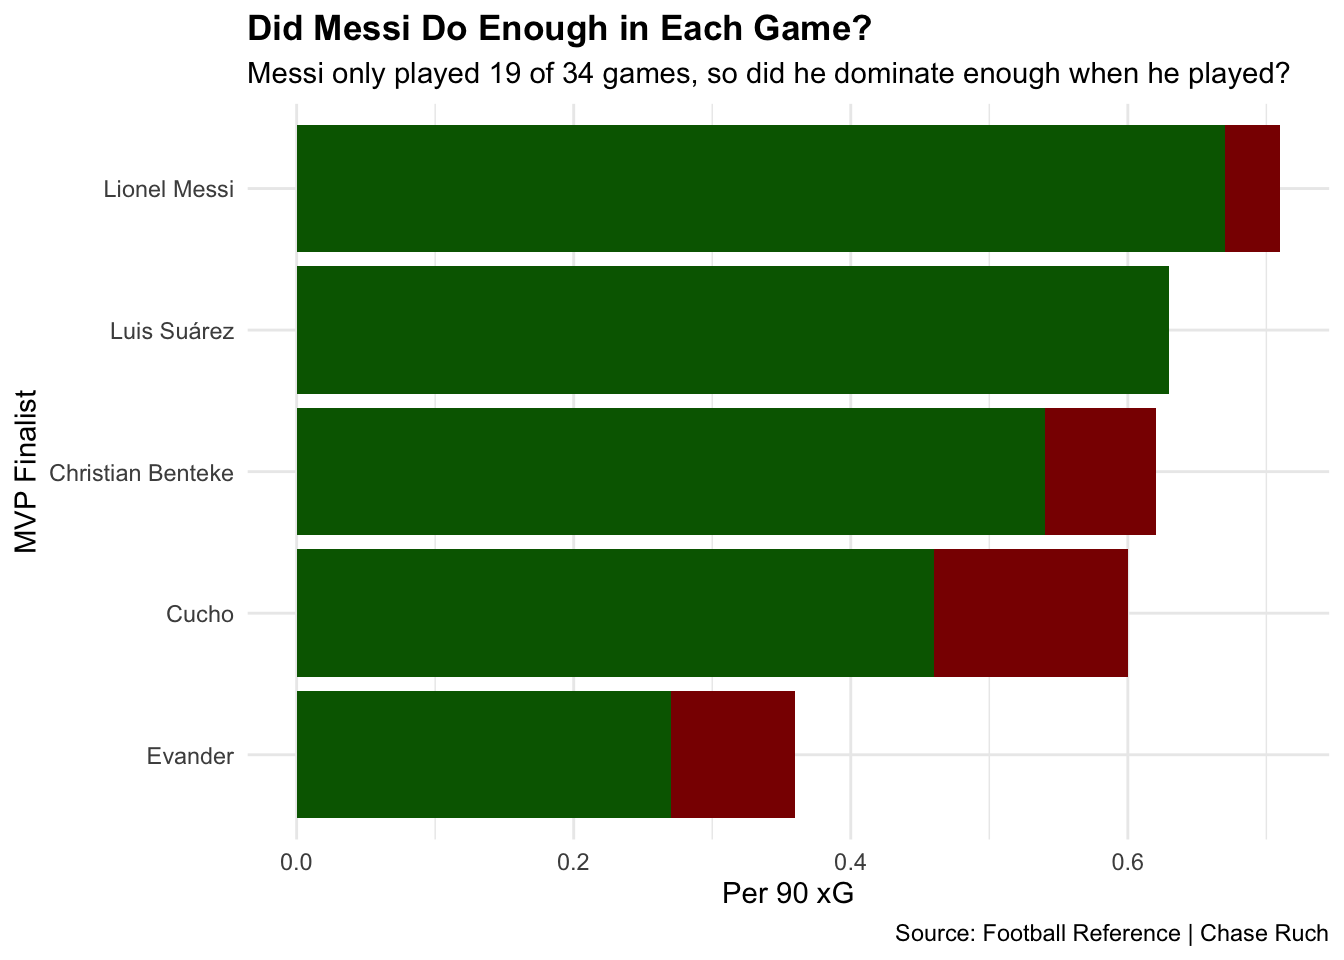
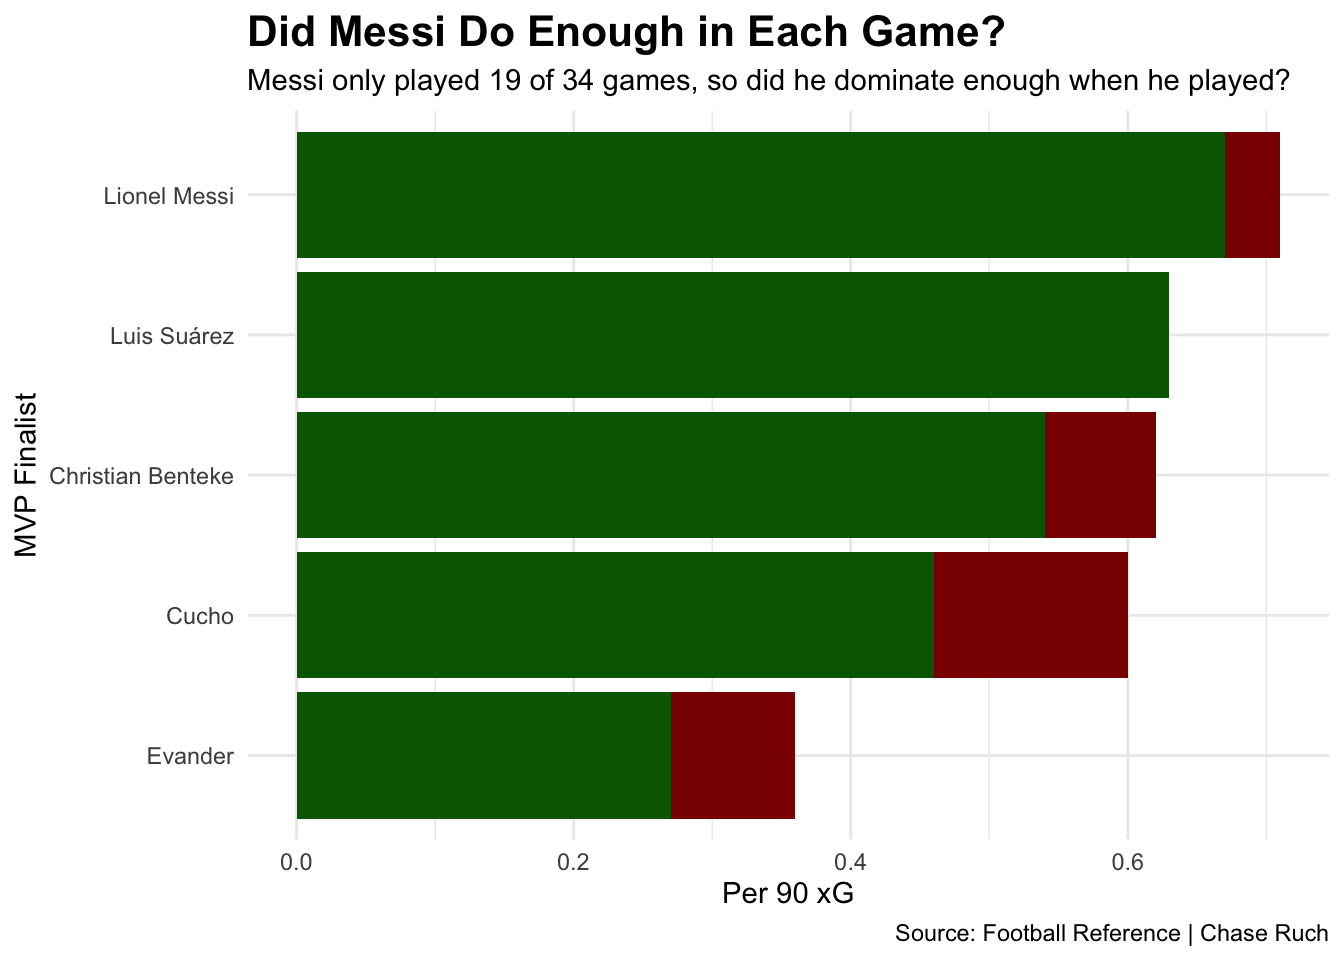
official_final_proj_one

diff --git a/posts/lionel-messi-mls-stat-comparison/index.html b/posts/lionel-messi-mls-stat-comparison/index.html
@@ -257,7 +257,7 @@ pre > code.sourceCode > span > a:first-child::before { text-decoration: underlin
 <span id="cb1-59"><a href="#cb1-59" aria-hidden="true" tabindex="-1"></a>    <span class="at">plot.title.position=</span><span class="st">"plot"</span></span>
 <span id="cb1-60"><a href="#cb1-60" aria-hidden="true" tabindex="-1"></a>    ) <span class="sc">+</span></span>
 <span id="cb1-61"><a href="#cb1-61" aria-hidden="true" tabindex="-1"></a>  <span class="fu">theme_minimal</span>() <span class="sc">+</span></span>
-<span id="cb1-62"><a href="#cb1-62" aria-hidden="true" tabindex="-1"></a>  <span class="fu">theme</span>(<span class="at">plot.title =</span> <span class="fu">element_text</span>(<span class="at">face =</span> <span class="st">"bold"</span>)) <span class="sc">+</span></span>
+<span id="cb1-62"><a href="#cb1-62" aria-hidden="true" tabindex="-1"></a>  <span class="fu">theme</span>(<span class="at">plot.title =</span> <span class="fu">element_text</span>(<span class="at">face =</span> <span class="st">"bold"</span>, <span class="at">size=</span><span class="dv">16</span>)) <span class="sc">+</span></span>
 <span id="cb1-63"><a href="#cb1-63" aria-hidden="true" tabindex="-1"></a>  <span class="fu">theme</span>(</span>
 <span id="cb1-64"><a href="#cb1-64" aria-hidden="true" tabindex="-1"></a>    <span class="at">plot.subtitle =</span> <span class="fu">element_textbox_simple</span>()</span>
 <span id="cb1-65"><a href="#cb1-65" aria-hidden="true" tabindex="-1"></a>  )</span></code><button title="Copy to Clipboard" class="code-copy-button"><i class="bi"></i></button></pre></div>
@@ -320,7 +320,7 @@ pre > code.sourceCode > span > a:first-child::before { text-decoration: underlin
 <span id="cb2-41"><a href="#cb2-41" aria-hidden="true" tabindex="-1"></a>    <span class="at">plot.title.position=</span><span class="st">"plot"</span></span>
 <span id="cb2-42"><a href="#cb2-42" aria-hidden="true" tabindex="-1"></a>    ) <span class="sc">+</span></span>
 <span id="cb2-43"><a href="#cb2-43" aria-hidden="true" tabindex="-1"></a>  <span class="fu">theme_minimal</span>() <span class="sc">+</span></span>
-<span id="cb2-44"><a href="#cb2-44" aria-hidden="true" tabindex="-1"></a>  <span class="fu">theme</span>(<span class="at">plot.title =</span> <span class="fu">element_text</span>(<span class="at">face =</span> <span class="st">"bold"</span>)) <span class="sc">+</span></span>
+<span id="cb2-44"><a href="#cb2-44" aria-hidden="true" tabindex="-1"></a>  <span class="fu">theme</span>(<span class="at">plot.title =</span> <span class="fu">element_text</span>(<span class="at">face =</span> <span class="st">"bold"</span>, <span class="at">size=</span><span class="dv">16</span>)) <span class="sc">+</span></span>
 <span id="cb2-45"><a href="#cb2-45" aria-hidden="true" tabindex="-1"></a>  <span class="fu">theme</span>(</span>
 <span id="cb2-46"><a href="#cb2-46" aria-hidden="true" tabindex="-1"></a>    <span class="at">plot.subtitle =</span> <span class="fu">element_textbox_simple</span>()</span>
 <span id="cb2-47"><a href="#cb2-47" aria-hidden="true" tabindex="-1"></a>  )</span></code><button title="Copy to Clipboard" class="code-copy-button"><i class="bi"></i></button></pre></div>
@@ -351,7 +351,7 @@ pre > code.sourceCode > span > a:first-child::before { text-decoration: underlin
 <span id="cb3-11"><a href="#cb3-11" aria-hidden="true" tabindex="-1"></a>    <span class="at">plot.title.position=</span><span class="st">"plot"</span></span>
 <span id="cb3-12"><a href="#cb3-12" aria-hidden="true" tabindex="-1"></a>    ) <span class="sc">+</span></span>
 <span id="cb3-13"><a href="#cb3-13" aria-hidden="true" tabindex="-1"></a>  <span class="fu">theme_minimal</span>() <span class="sc">+</span></span>
-<span id="cb3-14"><a href="#cb3-14" aria-hidden="true" tabindex="-1"></a>  <span class="fu">theme</span>(<span class="at">plot.title =</span> <span class="fu">element_text</span>(<span class="at">face =</span> <span class="st">"bold"</span>))</span></code><button title="Copy to Clipboard" class="code-copy-button"><i class="bi"></i></button></pre></div>
+<span id="cb3-14"><a href="#cb3-14" aria-hidden="true" tabindex="-1"></a>  <span class="fu">theme</span>(<span class="at">plot.title =</span> <span class="fu">element_text</span>(<span class="at">face =</span> <span class="st">"bold"</span>, <span class="at">size =</span> <span class="dv">16</span>))</span></code><button title="Copy to Clipboard" class="code-copy-button"><i class="bi"></i></button></pre></div>
 </details>
 <div class="cell-output-display">
 <div>
@@ -406,7 +406,7 @@ pre > code.sourceCode > span > a:first-child::before { text-decoration: underlin
 <span id="cb4-35"><a href="#cb4-35" aria-hidden="true" tabindex="-1"></a>  <span class="fu">annotate</span>(<span class="st">"text"</span>, <span class="at">x=</span><span class="dv">01</span>, <span class="at">y=</span><span class="dv">5</span>, <span class="at">label=</span><span class="st">"Messi"</span>, <span class="at">color=</span><span class="st">"#F7B5CD"</span>, <span class="at">fontface=</span><span class="st">"bold"</span>) <span class="sc">+</span></span>
 <span id="cb4-36"><a href="#cb4-36" aria-hidden="true" tabindex="-1"></a>  <span class="fu">annotate</span>(<span class="st">"text"</span>, <span class="at">x=</span><span class="dv">02</span>, <span class="at">y=</span><span class="dv">7</span>, <span class="at">label=</span><span class="st">"Vela"</span>, <span class="at">color=</span><span class="st">"#C39E6D"</span>, <span class="at">fontface=</span><span class="st">"bold"</span>) <span class="sc">+</span></span>
 <span id="cb4-37"><a href="#cb4-37" aria-hidden="true" tabindex="-1"></a>  <span class="fu">annotate</span>(<span class="st">"text"</span>, <span class="at">x=</span><span class="fl">6.5</span>, <span class="at">y=</span><span class="dv">10</span>, <span class="at">label=</span><span class="st">"Messi's Injury"</span>, <span class="at">color=</span><span class="st">"red"</span>, <span class="at">fontface=</span><span class="st">"bold"</span>) <span class="sc">+</span></span>
-<span id="cb4-38"><a href="#cb4-38" aria-hidden="true" tabindex="-1"></a>  <span class="fu">theme</span>(<span class="at">plot.title =</span> <span class="fu">element_text</span>(<span class="at">face =</span> <span class="st">"bold"</span>)) <span class="sc">+</span></span>
+<span id="cb4-38"><a href="#cb4-38" aria-hidden="true" tabindex="-1"></a>  <span class="fu">theme</span>(<span class="at">plot.title =</span> <span class="fu">element_text</span>(<span class="at">face =</span> <span class="st">"bold"</span>, <span class="at">size =</span><span class="dv">16</span>)) <span class="sc">+</span></span>
 <span id="cb4-39"><a href="#cb4-39" aria-hidden="true" tabindex="-1"></a>  <span class="fu">geom_vline</span>(<span class="at">xintercept =</span> <span class="fl">5.1</span>) <span class="sc">+</span></span>
 <span id="cb4-40"><a href="#cb4-40" aria-hidden="true" tabindex="-1"></a>  <span class="fu">geom_vline</span>(<span class="at">xintercept =</span> <span class="fl">7.9</span>)</span></code><button title="Copy to Clipboard" class="code-copy-button"><i class="bi"></i></button></pre></div>
 </details>

diff --git a/index.html b/index.html
@@ -200,7 +200,7 @@ window.Quarto = {
 
 <div class="quarto-listing quarto-listing-container-default" id="listing-listing">
 <div class="list quarto-listing-default">
-<div class="quarto-post image-right" data-index="0" data-categories="c29jY2VyJTJDbWxzJTJDbWVzc2k=" data-listing-date-sort="1744606800000" data-listing-file-modified-sort="1744676510612" data-listing-date-modified-sort="NaN" data-listing-reading-time-sort="9" data-listing-word-count-sort="1800">
+<div class="quarto-post image-right" data-index="0" data-categories="c29jY2VyJTJDbWxzJTJDbWVzc2k=" data-listing-date-sort="1744606800000" data-listing-file-modified-sort="1744678302677" data-listing-date-modified-sort="NaN" data-listing-reading-time-sort="10" data-listing-word-count-sort="1807">
 <div class="thumbnail">
 <p><a href="./posts/lionel-messi-mls-stat-comparison/index.html" class="no-external"></a></p><a href="./posts/lionel-messi-mls-stat-comparison/index.html" class="no-external">
 <p><img loading="lazy" src="./posts/lionel-messi-mls-stat-comparison/image.png" class="thumbnail-image"></p>
